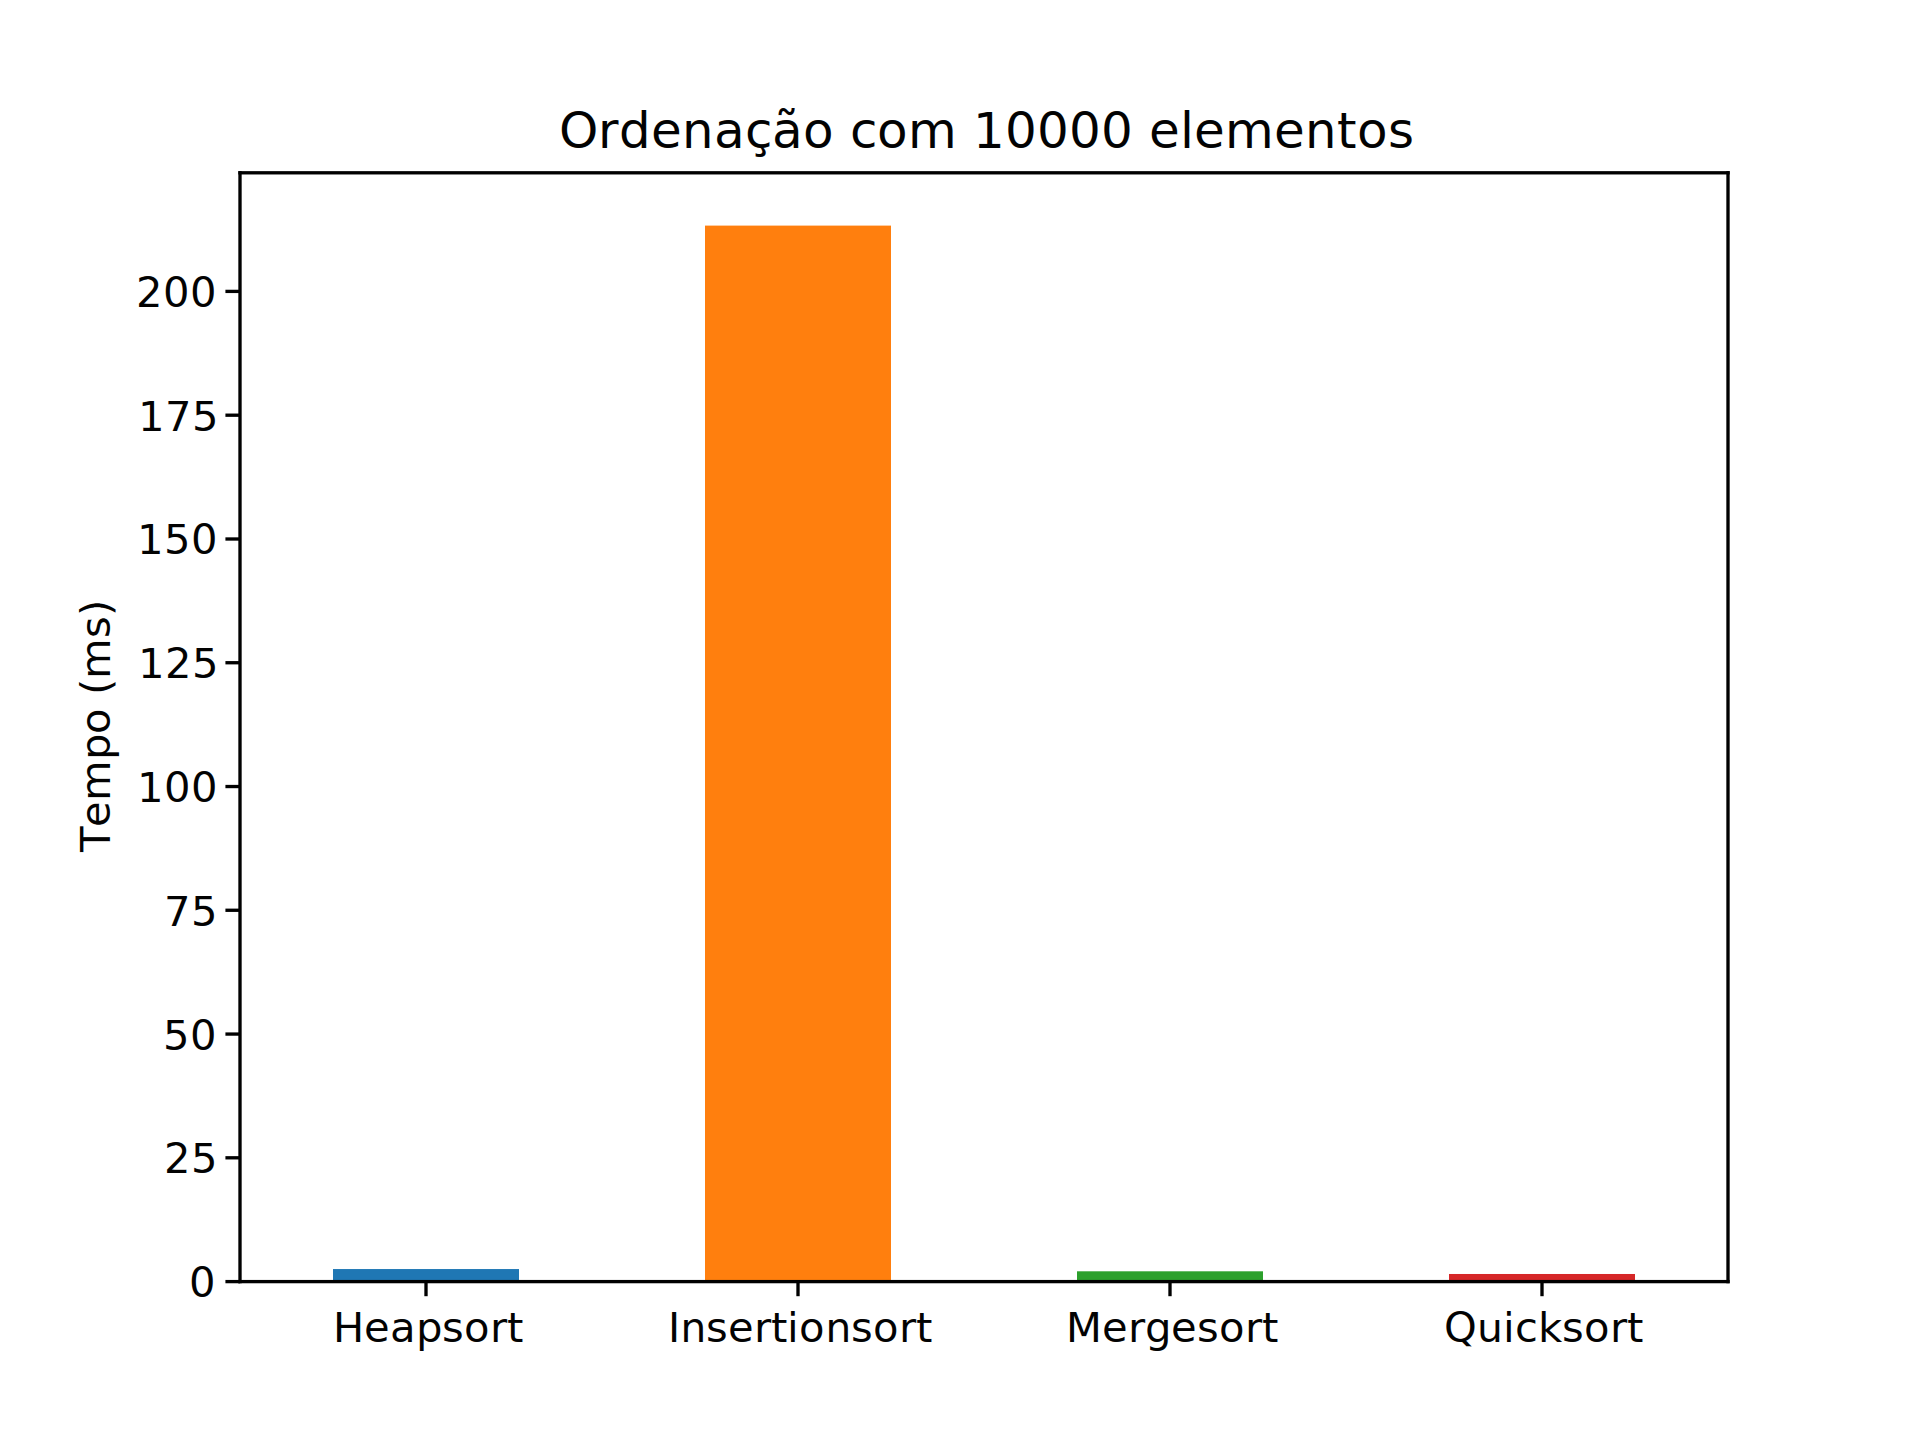
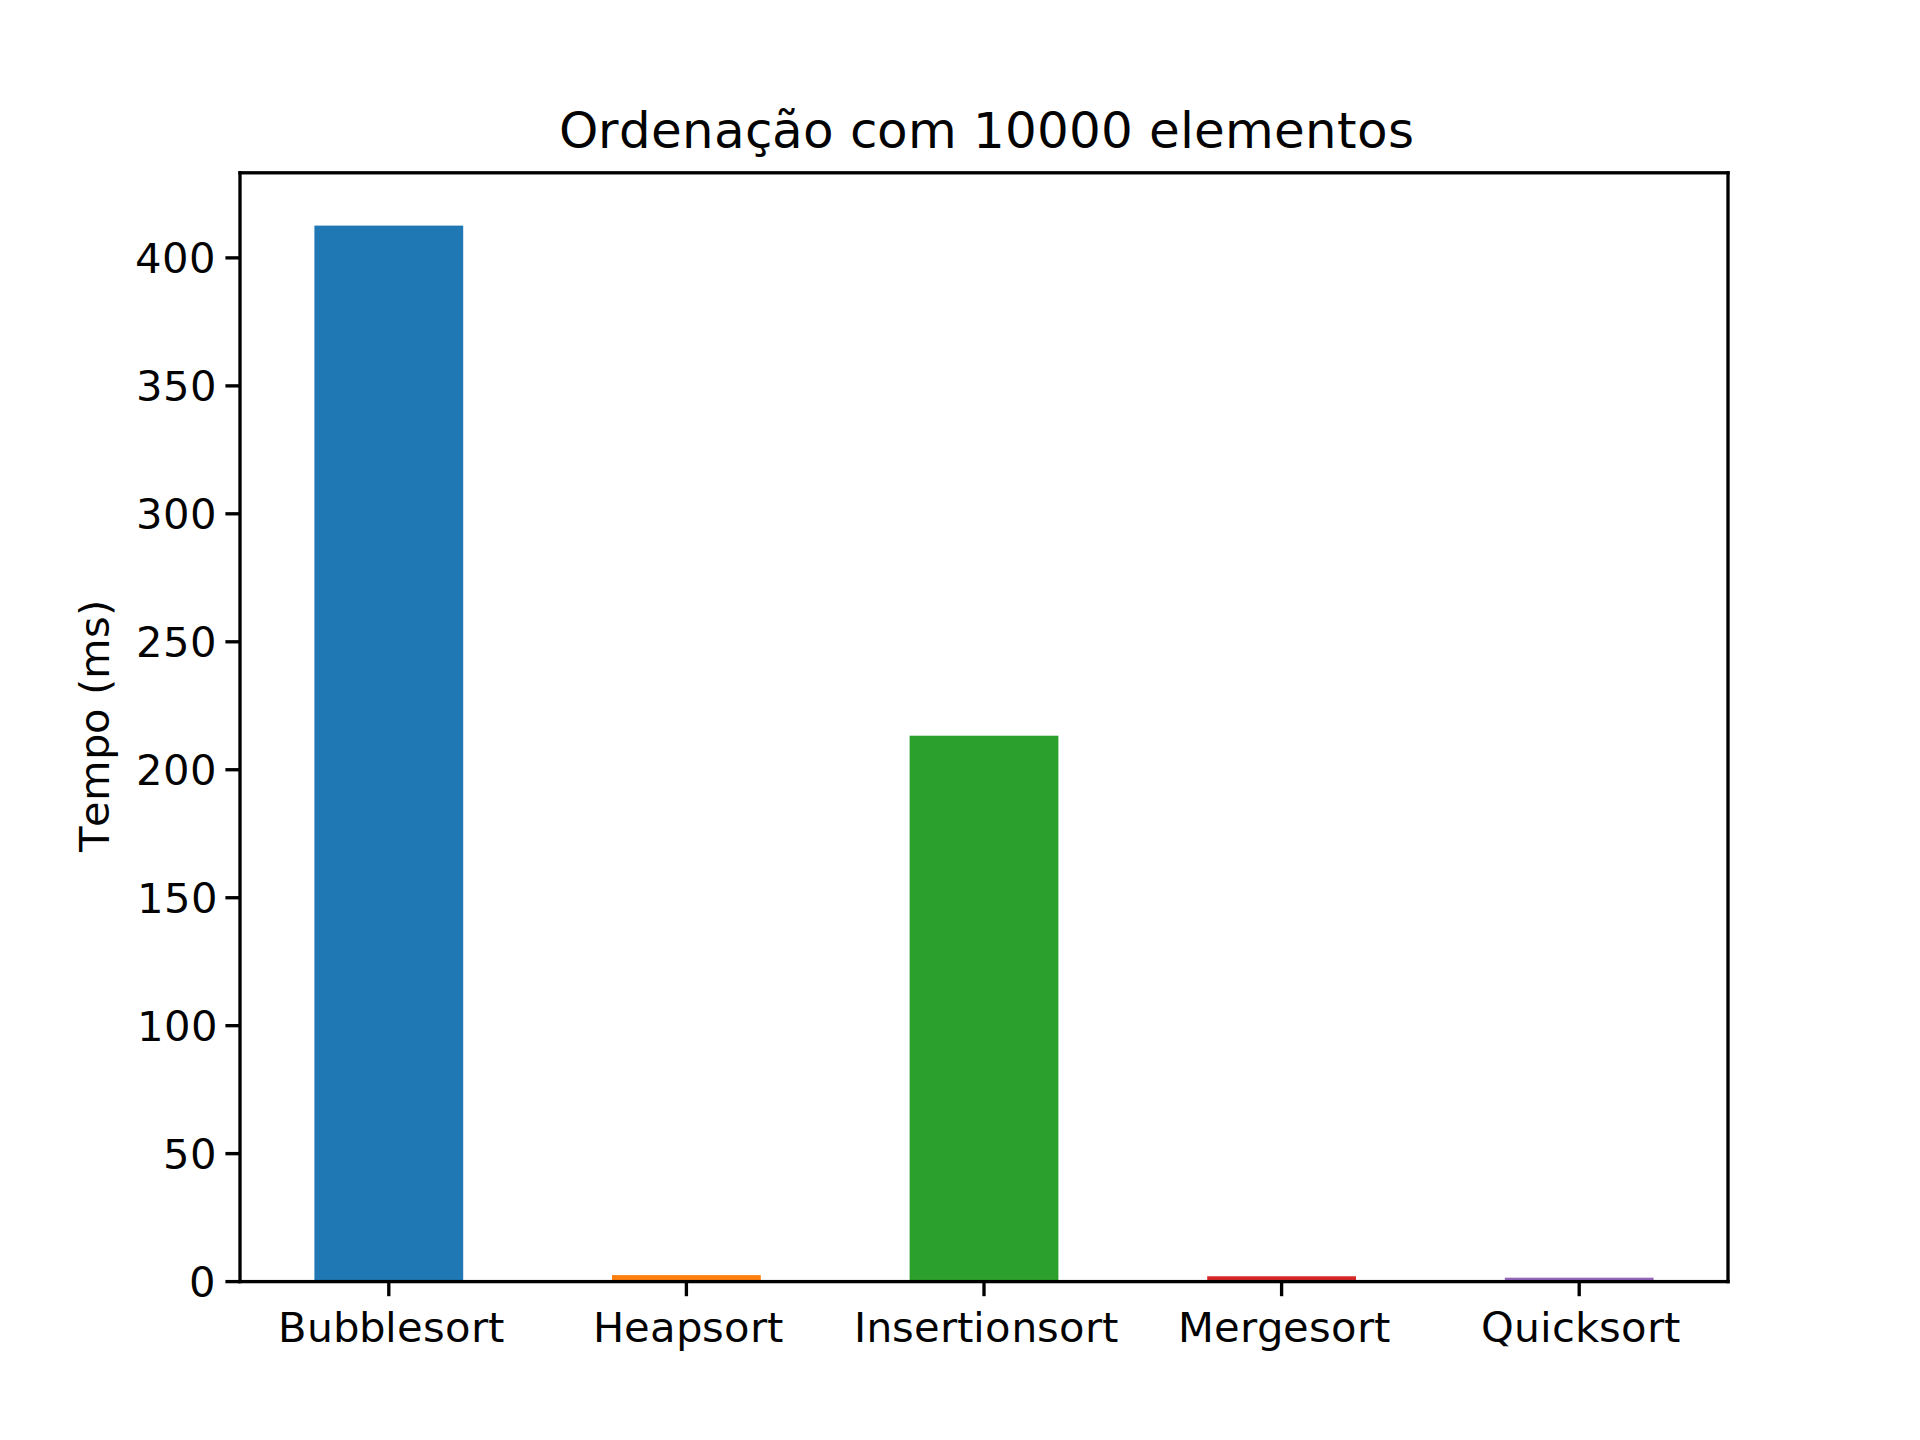
[sort] Melhoria no relatório de algoritmos de ordenação

diff --git a/src/sort/stats.py b/src/sort/stats.py
@@ -108,9 +108,10 @@ def main():
         save_graph_algorithm(name, df)
 
     # save general graph
-    efficient = {'heapsort', 'mergesort', 'quicksort'}
-    df_eff = dict((k, v) for k,v in dfs.items() if k.strip('.csv') in efficient)
-    df_ineff = dict((k, v) for k,v in dfs.items() if k.strip('.csv') not in efficient)
+    nlogn = {'heapsort', 'mergesort', 'quicksort'}
+    quadratic = {'insertionsort', 'bubblesort'}
+    df_eff = dict((k, v) for k,v in dfs.items() if k.strip('.csv') in nlogn)
+    df_ineff = dict((k, v) for k,v in dfs.items() if k.strip('.csv') in quadratic)
     save_graph_algorithms(dfs)
     save_graph_algorithms(df_eff, prefix='log-linear')
     save_graph_algorithms(df_ineff, prefix='quadratic')
